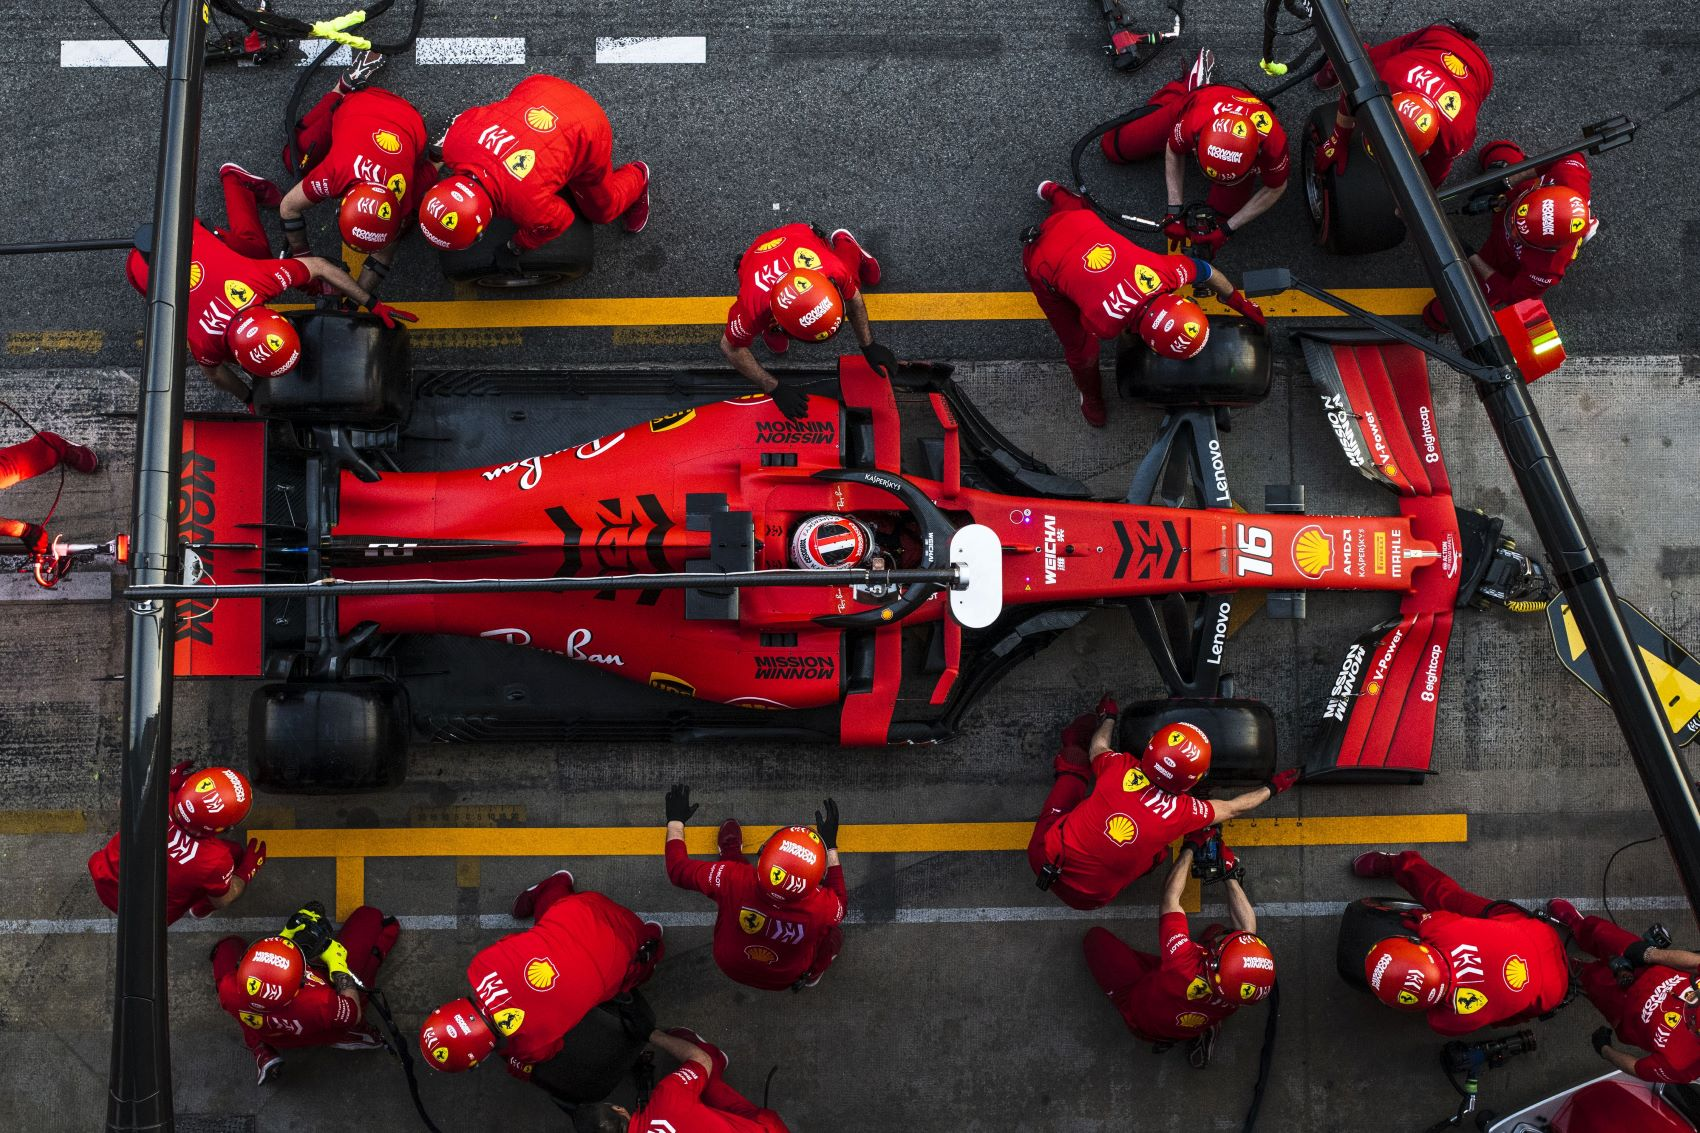
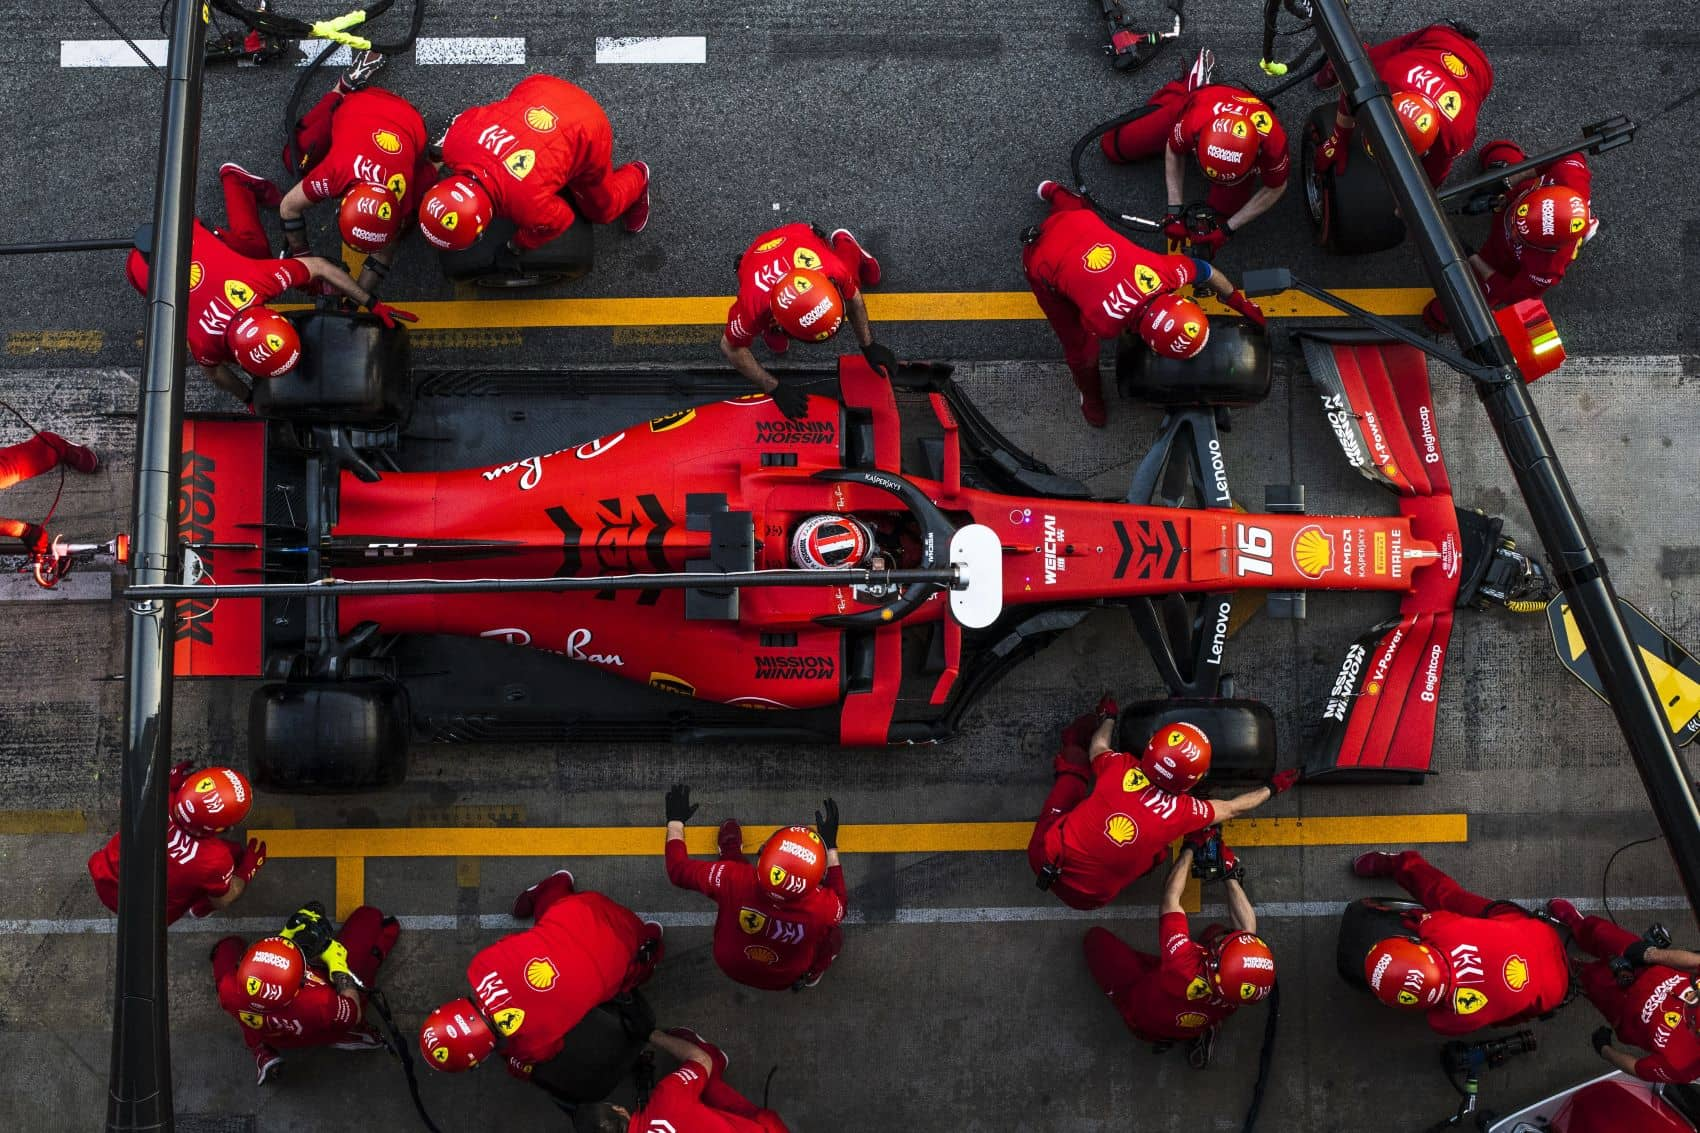
Replacing hero photos in home and teams page to compressed versions

diff --git a/assets/css/style.css b/assets/css/style.css
@@ -33,9 +33,7 @@ h1, h2 {
 #logo {
     letter-spacing: 0.25rem;
     font-size: 200%;
-    line-height: 2px;
     text-decoration: none;
-    line-height: 50px;
 }
 
 #logo a:hover, a:visited, a:link, a:active {
@@ -51,7 +49,7 @@ h1, h2 {
     
 }
 
-#menu {
+#menu, #logo {
     line-height: 2.00rem;
 }
 

diff --git a/index.html b/index.html
@@ -92,6 +92,7 @@
             </div>
         </div>
     </section>
+
     <!--Footer-->
     <footer>
         <ul class="social-networks">
